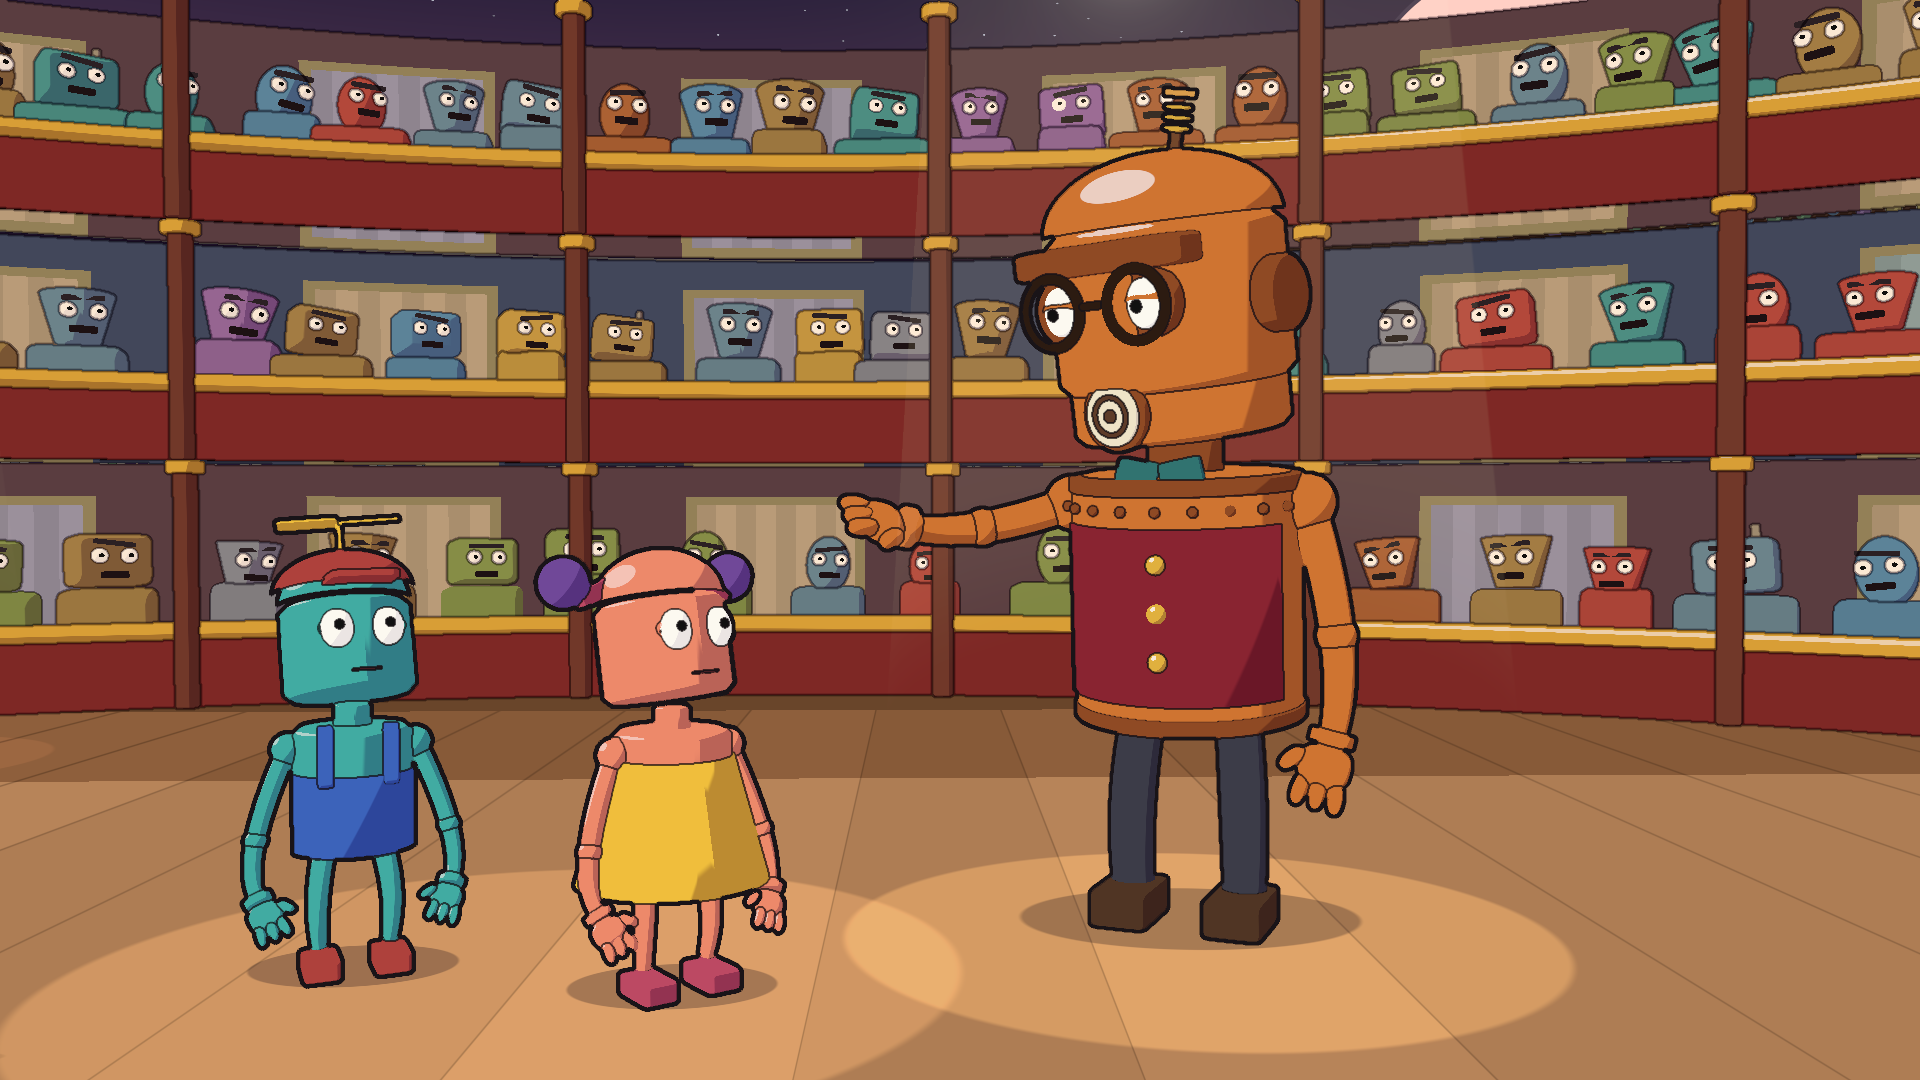
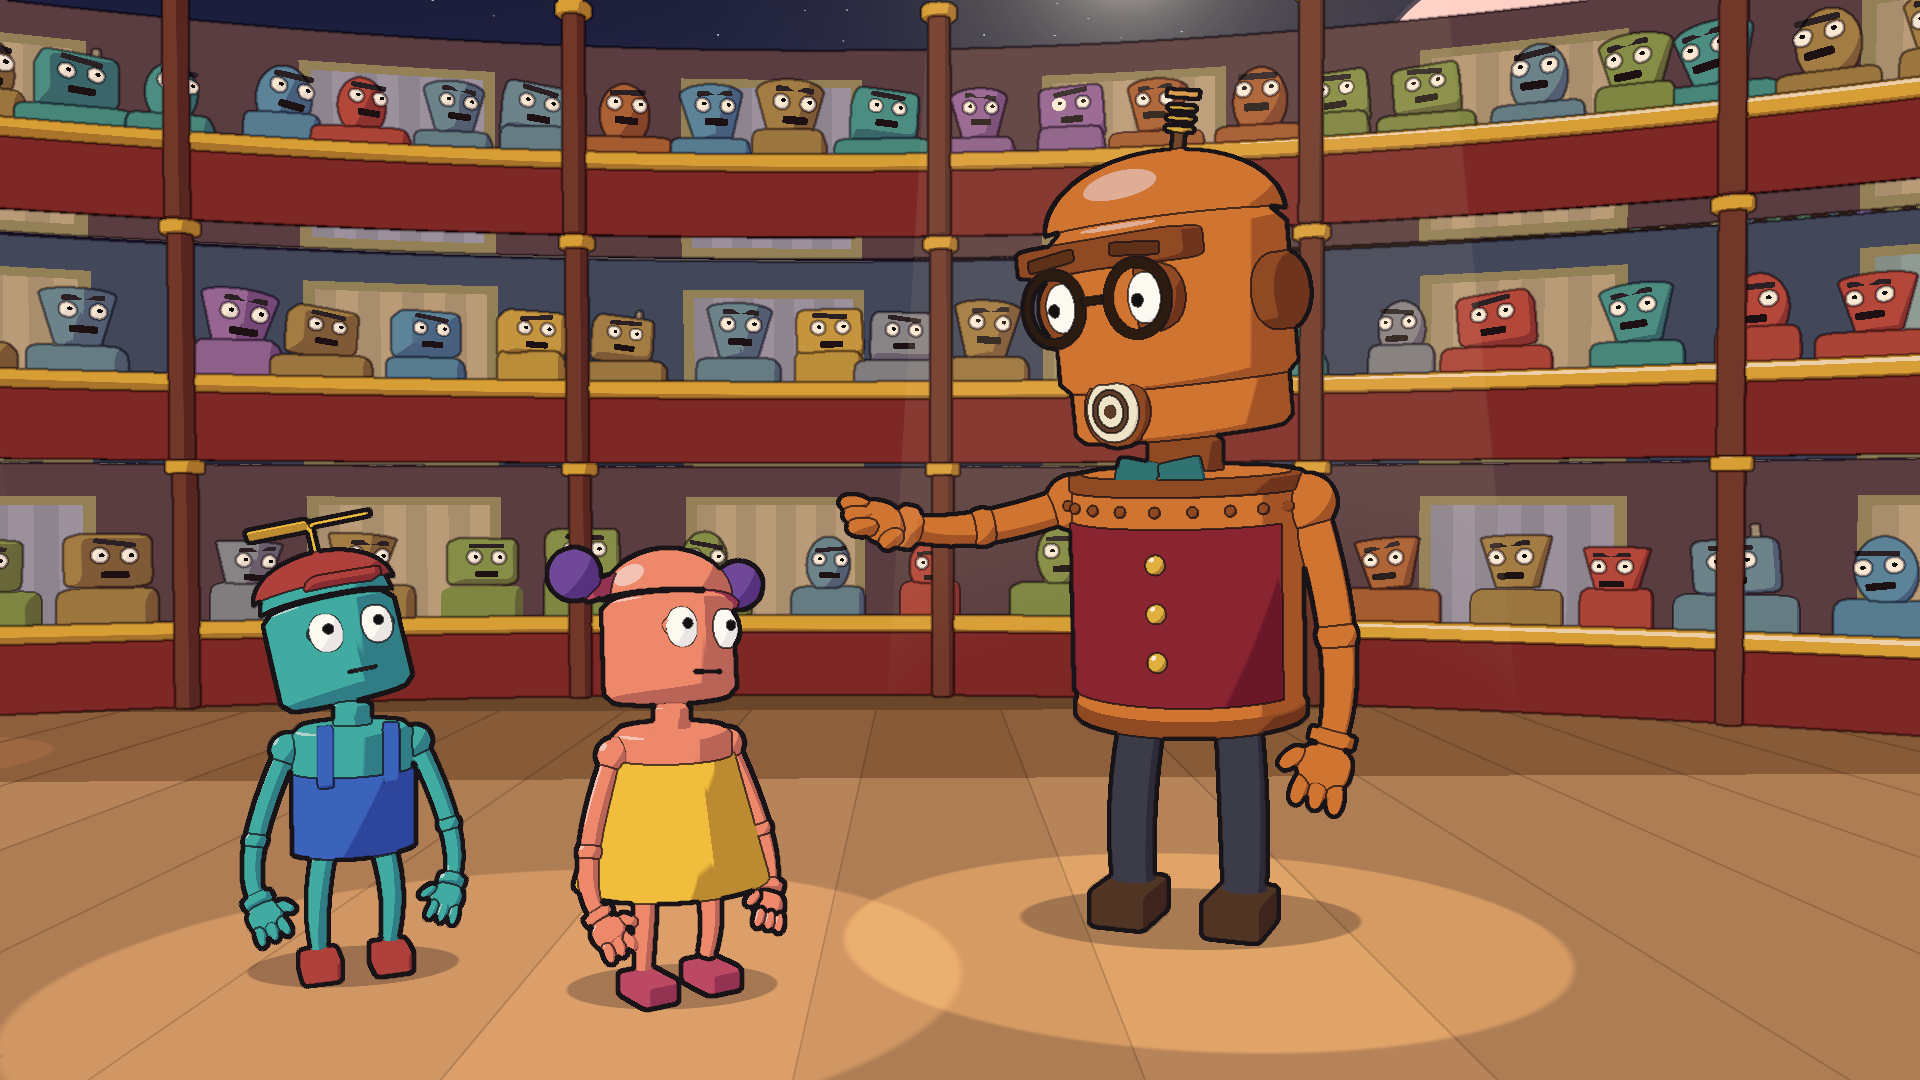
Teaching round 2: star-matched opening, acting brows and faces, clear reveal

diff --git a/visuals/one-more-dawn/src/lib/clips/teaching.ts b/visuals/one-more-dawn/src/lib/clips/teaching.ts
@@ -75,7 +75,7 @@ function unwrapTo(angle: number, ref: number): number {
 
 function blendPose(out: Pose, def: Pose, mine: Pose, w: number): void {
   const k = clamp01(w);
-  const num = ['x', 'z', 'lift', 'lean', 'tilt', 'twist', 'squash', 'headYaw', 'headPitch', 'headRoll', 'mouth', 'lid', 'lookX', 'lookY', 'eyeGlow', 'bendL', 'bendR'] as const;
+  const num = ['x', 'z', 'lift', 'lean', 'tilt', 'twist', 'squash', 'headYaw', 'headPitch', 'headRoll', 'mouth', 'lid', 'lookX', 'lookY', 'eyeGlow', 'brow', 'browTilt', 'bendL', 'bendR'] as const;
   for (const n of num) {
     out[n] = lerp(def[n], mine[n], k);
   }
@@ -202,17 +202,53 @@ function barnaby(t: number, rig: Rig, def: Pose, p: Pose): void {
   p.bendL = 0.5 + wide * 0.3;
   p.bendR = 0.5 + wide * 0.3;
 
-  // Head: warm and wistful; look at the kids, up into the light, then at
-  // the throne.
+  // Head: warm and wistful; look at the kids, up into the light, then
+  // warily up at the throne.
   const toKids = span(t, T.children - 0.3, T.singEnd + 0.35, 0.4, 0.5);
   const toKing = span(t, T.kingdoms - 0.4, END + 1, 0.5, 0.5);
-  p.headYaw = toKids * -0.35 + toKing * -0.45;
-  p.headPitch = heart * -0.08 - wide * 0.2 - toKing * 0.12 + toKids * 0.1 + bow * 0.18;
-  p.headPitch -= p.mouth * 0.06;
-  p.headRoll = Math.sin(t * 1.1) * 0.04 + heart * 0.08 + p.mouth * Math.sin(t * 3.0) * 0.03;
-  p.lookX = toKids * -0.4 + toKing * -0.3;
-  p.lookY = wide * 0.4 + toKing * 0.35 - toKids * 0.3;
-  p.lid = 0.36 + heart * 0.25 + rise * 0.15 + blinkAt(t);
+  // Delight while the kids walk, dance and sing: a head bob on the beat.
+  const delight = span(t, T.children - 0.2, T.they - 0.1, 0.35, 0.4);
+  const bob = Math.sin((t - T.walk) * 7.5);
+  // Pride on "helped them teach": chin up, chest out.
+  const proud = span(t, T.helped - 0.1, T.children - 0.1, 0.3, 0.4);
+  p.lean -= proud * 0.04;
+  p.headYaw = toKids * -0.35 + toKing * -0.5;
+  p.headPitch = heart * -0.04 - proud * 0.1 - wide * 0.24 - toKing * 0.2 + toKids * 0.08 + bow * 0.12;
+  p.headPitch += delight * bob * 0.06;
+  // The speaker mouth is small: let the head ride each sung syllable.
+  p.headPitch -= p.mouth * 0.12;
+  p.headRoll = Math.sin(t * 1.1) * 0.04 + heart * 0.16 + gather * 0.12 + p.mouth * Math.sin(t * 3.0) * 0.05;
+  p.headRoll += delight * Math.sin((t - T.walk) * 3.75) * 0.1;
+  p.lookX = toKids * -0.4 + toKing * -0.35;
+  p.lookY = wide * 0.45 + toKing * 0.55 - toKids * 0.3;
+
+  // Brows (raise -1..1, tilt + worried / - stern). Cheerful stroll,
+  // tender on "I", proud on "helped", delighted with the kids, an
+  // open-hearted lift on "trusted us with everything", then a deferential,
+  // wary look up at the king.
+  const stroll = 1 - ramp(t, 43.6, 44.2);
+  const wary = span(t, T.their - 0.1, END + 1, 0.4, 0.5);
+  const kingsBeat = span(t, T.kings - 0.1, END + 1, 0.25, 0.5);
+  let brow = 0.25 * stroll + inhale * 0.35;
+  let tiltB = 0;
+  brow = lerp(brow, 0.25, heart);
+  tiltB = lerp(tiltB, 0.45, heart);
+  brow = lerp(brow, 0.5, proud);
+  tiltB = lerp(tiltB, -0.15, proud);
+  brow = lerp(brow, 0.75 + Math.abs(bob) * 0.15, delight);
+  tiltB = lerp(tiltB, 0.1, delight);
+  brow = lerp(brow, 0.3, gather);
+  tiltB = lerp(tiltB, 0.6, gather);
+  brow = lerp(brow, 0.95, wide);
+  tiltB = lerp(tiltB, 0.3, wide);
+  brow = lerp(brow, 0.15, wary);
+  tiltB = lerp(tiltB, 0.7, wary);
+  brow = lerp(brow, -0.25, kingsBeat);
+  tiltB = lerp(tiltB, 0.55, kingsBeat);
+  p.brow = brow;
+  p.browTilt = tiltB;
+  // Eyes: soft and smiling on "I", wide on "everything", hooded with the bow.
+  p.lid = 0.24 + heart * 0.05 + gather * 0.04 - wide * 0.12 - proud * 0.06 - delight * 0.06 - toKing * 0.06 + kingsBeat * 0.14 + blinkAt(t);
   p.visible = t > START - 0.5;
 }
 
@@ -371,6 +407,19 @@ function kid(t: number, rig: Rig, def: Pose, p: Pose, which: 0 | 1): { x: number
   const bow = ramp(t, T.kings, T.kings + 0.3, backOut);
   p.lean += bow * 0.5;
 
+  // Faces (the kids have eyes and lids, no brows): a curious head cock
+  // while waiting, eyes down to their feet on "walk", bright eyes on the
+  // "ta-da" and the sung note, wide eyes for Barnaby, the rumble and the king.
+  p.headRoll += wait * Math.sin((t - k.arrive) * 2.2 + which) * 0.16 * k.sign;
+  p.headPitch += toddle * 0.16;
+  p.lookY -= toddle * 0.45;
+  // Lowered lids read as bored on these faces, so joy stays wide-eyed and
+  // Pip beams up into the held "sing".
+  p.lid = clamp01(def.lid * (1 - Math.max(tada, adore, startle, awe) * 0.8) + bow * 0.3);
+  p.lookY += (which === 0 ? singing * 0.5 : 0) + tada * 0.1;
+  p.headRoll += singing * Math.sin((t - T.sing) * 3.2 + which * 1.5) * 0.12;
+  p.headPitch -= startle * 0.15;
+
   p.yaw = yaw;
   p.visible = t > k.enter;
   if (rig.props.propeller) {
@@ -406,18 +455,36 @@ interface Shot {
   to: [V3, V3];
 }
 
+// Look point from a camera position and a heading (degrees; az > 0 is
+// screen right, el > 0 is up).
+function aim(c: V3, az: number, el: number): V3 {
+  const a = (az * Math.PI) / 180;
+  const e = (el * Math.PI) / 180;
+  return [c[0] + Math.sin(a) * Math.cos(e) * 10, c[1] + Math.sin(e) * 10, c[2] - Math.cos(a) * Math.cos(e) * 10];
+}
+
+// The dream star sits ~22 deg up, ~9 deg right. A1 keeps the previous
+// shot's low angle so it stays in the upper right for the first beat.
+const A1P: V3 = [1.0, 1.0, 9.0];
+const A1Q: V3 = [1.05, 1.08, 8.8];
+const A2P: V3 = [0.9, 2.15, 9.5];
+
 const SHOTS: Shot[] = [
-  // A: wide, energetic push-in on the band entrance; the apron lip is the
-  // bottom of frame, so the stalls stay out of shot.
-  { at: START, from: [[0.4, 3.0, 10.6], [0.6, 2.0, -1.5]], to: [[0.9, 2.6, 9.4], [1.1, 1.75, -1.0]] },
+  // A1: the band hits; same low hero angle as the cut-in, the star high
+  // in frame, the house warms up around Aria.
+  { at: START, from: [A1P, aim(A1P, -1, 12)], to: [A1Q, aim(A1Q, -1, 11)] },
+  // A2: crane up and tilt down into the wide as Barnaby strolls on; the
+  // apron lip is the bottom of frame, so the stalls stay out of shot.
+  { at: 41.45, from: [A1Q, aim(A1Q, -1, 11)], to: [A2P, [1.15, 1.8, -1.0]] },
   // B: medium on Barnaby, room on the left for the kids' entrance.
   { at: 44.15, from: [[1.2, 1.6, 6.9], [1.45, 1.45, 0.3]], to: [[1.3, 1.55, 6.3], [1.45, 1.42, 0.4]] },
   // C: low two-shot, kids featured, Barnaby conducting on the right.
   { at: 47.95, from: [[0.85, 1.2, 6.7], [1.0, 1.15, 0.6]], to: [[0.95, 1.15, 6.2], [1.0, 1.15, 0.7]] },
   // D: low hero medium on Barnaby for the big gesture.
   { at: 51.25, from: [[1.2, 1.0, 7.0], [1.35, 1.7, 0.4]], to: [[1.3, 1.15, 6.4], [1.45, 1.8, 0.3]] },
-  // E: the reveal – the throne rises centre, kids left, Barnaby right.
-  { at: 54.15, from: [[-0.85, 1.65, 8.7], [0.2, 1.3, -2.5]], to: [[-0.9, 1.8, 8.3], [0.2, 1.5, -2.8]] },
+  // E: the reveal – the throne rises centre, Aria far left, kids
+  // left of centre (clear of Aria), Barnaby right.
+  { at: 54.15, from: [[-1.75, 1.65, 8.7], [0.35, 1.3, -2.5]], to: [[-1.8, 1.8, 8.3], [0.35, 1.5, -2.8]] },
 ];
 
 const camPos = new Vector3();
